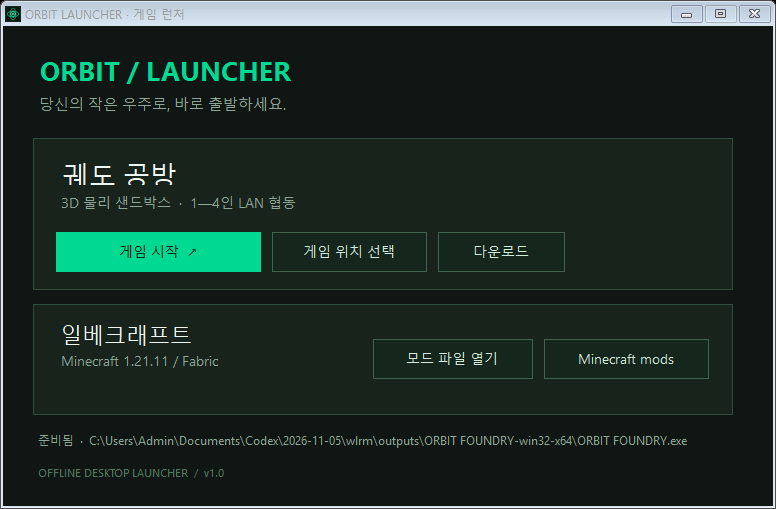
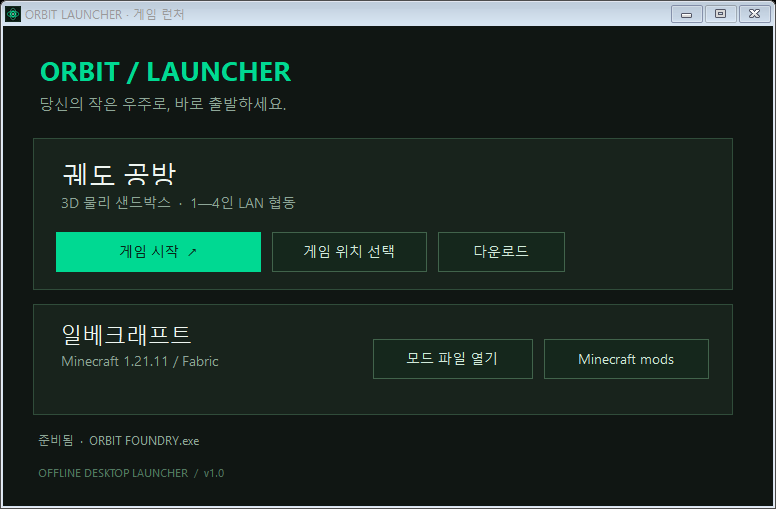
Show concise launcher status

Changed region(s): [[0.1237, 0.8546, 0.8969, 0.8841]]

diff --git a/launcher/Launcher.cs b/launcher/Launcher.cs
@@ -24,7 +24,7 @@ class OrbitLauncher : Form {
   Button folder=ButtonIn(mod,"Minecraft mods",511,35,165,40,false);folder.Click+=(s,e)=>{string p=Path.Combine(Environment.GetFolderPath(Environment.SpecialFolder.ApplicationData),".minecraft","mods");Directory.CreateDirectory(p);Open(p);SetStatus("기본 Minecraft mods 폴더를 열었습니다. 다른 런처는 해당 인스턴스 폴더를 사용하세요.");};
   status=LabelAt("게임 위치를 확인하는 중…",32,407,690,22,9,Muted);
   LabelAt("OFFLINE DESKTOP LAUNCHER  /  v1.0",32,440,600,18,8,Color.FromArgb(82,120,96));
-  game=DetectGame();SetStatus(File.Exists(game)?"준비됨  ·  "+game:"게임 위치를 선택하거나 다운로드해 주세요.");
+  game=DetectGame();SetStatus(File.Exists(game)?"준비됨  ·  "+Path.GetFileName(game):"게임 위치를 선택하거나 다운로드해 주세요.");
   Shown+=(s,e)=>{if(smoke){var timer=new Timer();timer.Interval=350;timer.Tick+=(a,b)=>{timer.Stop();using(var image=new Bitmap(Width,Height)){DrawToBitmap(image,new Rectangle(0,0,Width,Height));image.Save(Path.Combine(root,"launcher-preview.png"));}File.WriteAllText(Path.Combine(root,"smoke-ok.txt"),"GUI initialized; controls="+Controls.Count+"; gameFound="+File.Exists(game));Close();};timer.Start();}};
  }
  Panel PanelAt(int x,int y,int w,int h){Panel p=new Panel{Location=new Point(x,y),Size=new Size(w,h),BackColor=Card};p.Paint+=(s,e)=>{using(var pen=new Pen(Color.FromArgb(48,76,58)))e.Graphics.DrawRectangle(pen,0,0,w-1,h-1);};Controls.Add(p);return p;}
@@ -32,7 +32,7 @@ class OrbitLauncher : Form {
  void LabelIn(Panel panel,string text,int x,int y,int w,int h,int size,Color color){Label l=new Label{Text=text,Location=new Point(x,y),Size=new Size(w,h),ForeColor=color,Font=new Font("Segoe UI",size),BackColor=Card};panel.Controls.Add(l);}
  Button ButtonIn(Panel p,string text,int x,int y,int w,int h,bool primary){Button b=new Button{Text=text,Location=new Point(x,y),Size=new Size(w,h),FlatStyle=FlatStyle.Flat,BackColor=primary?Green:Color.FromArgb(21,39,28),ForeColor=primary?Color.FromArgb(7,38,25):Color.FromArgb(209,234,218),Cursor=Cursors.Hand};b.FlatAppearance.BorderColor=primary?Green:Color.FromArgb(65,99,75);b.FlatAppearance.MouseOverBackColor=primary?Color.FromArgb(91,239,182):Color.FromArgb(32,64,43);p.Controls.Add(b);return b;}
  string DetectGame(){try{if(File.Exists(config)){string s=File.ReadAllText(config).Trim();if(File.Exists(s))return s;}}catch{}string[] candidates={Path.Combine(root,"ORBIT FOUNDRY.exe"),Path.Combine(root,"ORBIT FOUNDRY-win32-x64","ORBIT FOUNDRY.exe"),Path.GetFullPath(Path.Combine(root,"..","ORBIT FOUNDRY-win32-x64","ORBIT FOUNDRY.exe"))};foreach(string s in candidates)if(File.Exists(s))return s;return "";}
- void PickGame(){using(OpenFileDialog dlg=new OpenFileDialog()){dlg.Title="ORBIT FOUNDRY.exe 선택";dlg.Filter="ORBIT FOUNDRY.exe|ORBIT FOUNDRY.exe|실행 파일|*.exe";if(dlg.ShowDialog()!=DialogResult.OK)return;game=dlg.FileName;try{Directory.CreateDirectory(Path.GetDirectoryName(config));File.WriteAllText(config,game);}catch{}SetStatus("게임 위치 저장됨  ·  "+game);}}
+ void PickGame(){using(OpenFileDialog dlg=new OpenFileDialog()){dlg.Title="ORBIT FOUNDRY.exe 선택";dlg.Filter="ORBIT FOUNDRY.exe|ORBIT FOUNDRY.exe|실행 파일|*.exe";if(dlg.ShowDialog()!=DialogResult.OK)return;game=dlg.FileName;try{Directory.CreateDirectory(Path.GetDirectoryName(config));File.WriteAllText(config,game);}catch{}SetStatus("게임 위치 저장됨  ·  "+Path.GetFileName(game));}}
  void LaunchGame(){if(!File.Exists(game)){PickGame();if(!File.Exists(game))return;}try{Process.Start(new ProcessStartInfo(game){WorkingDirectory=Path.GetDirectoryName(game),UseShellExecute=true});SetStatus("궤도 공방을 실행했습니다.");}catch(Exception ex){MessageBox.Show(this,ex.Message,"실행 오류",MessageBoxButtons.OK,MessageBoxIcon.Error);}}
  void OpenModsFiles(){string p=Path.GetFullPath(Path.Combine(root,"..","ilbecraft"));if(Directory.Exists(p))Open(p);else Open("https://github.com/illililiiililii/ilbecraft-P/tree/main/releases/1.0.0");}
  void Open(string path){try{Process.Start(new ProcessStartInfo(path){UseShellExecute=true});}catch(Exception ex){SetStatus(ex.Message);}}
